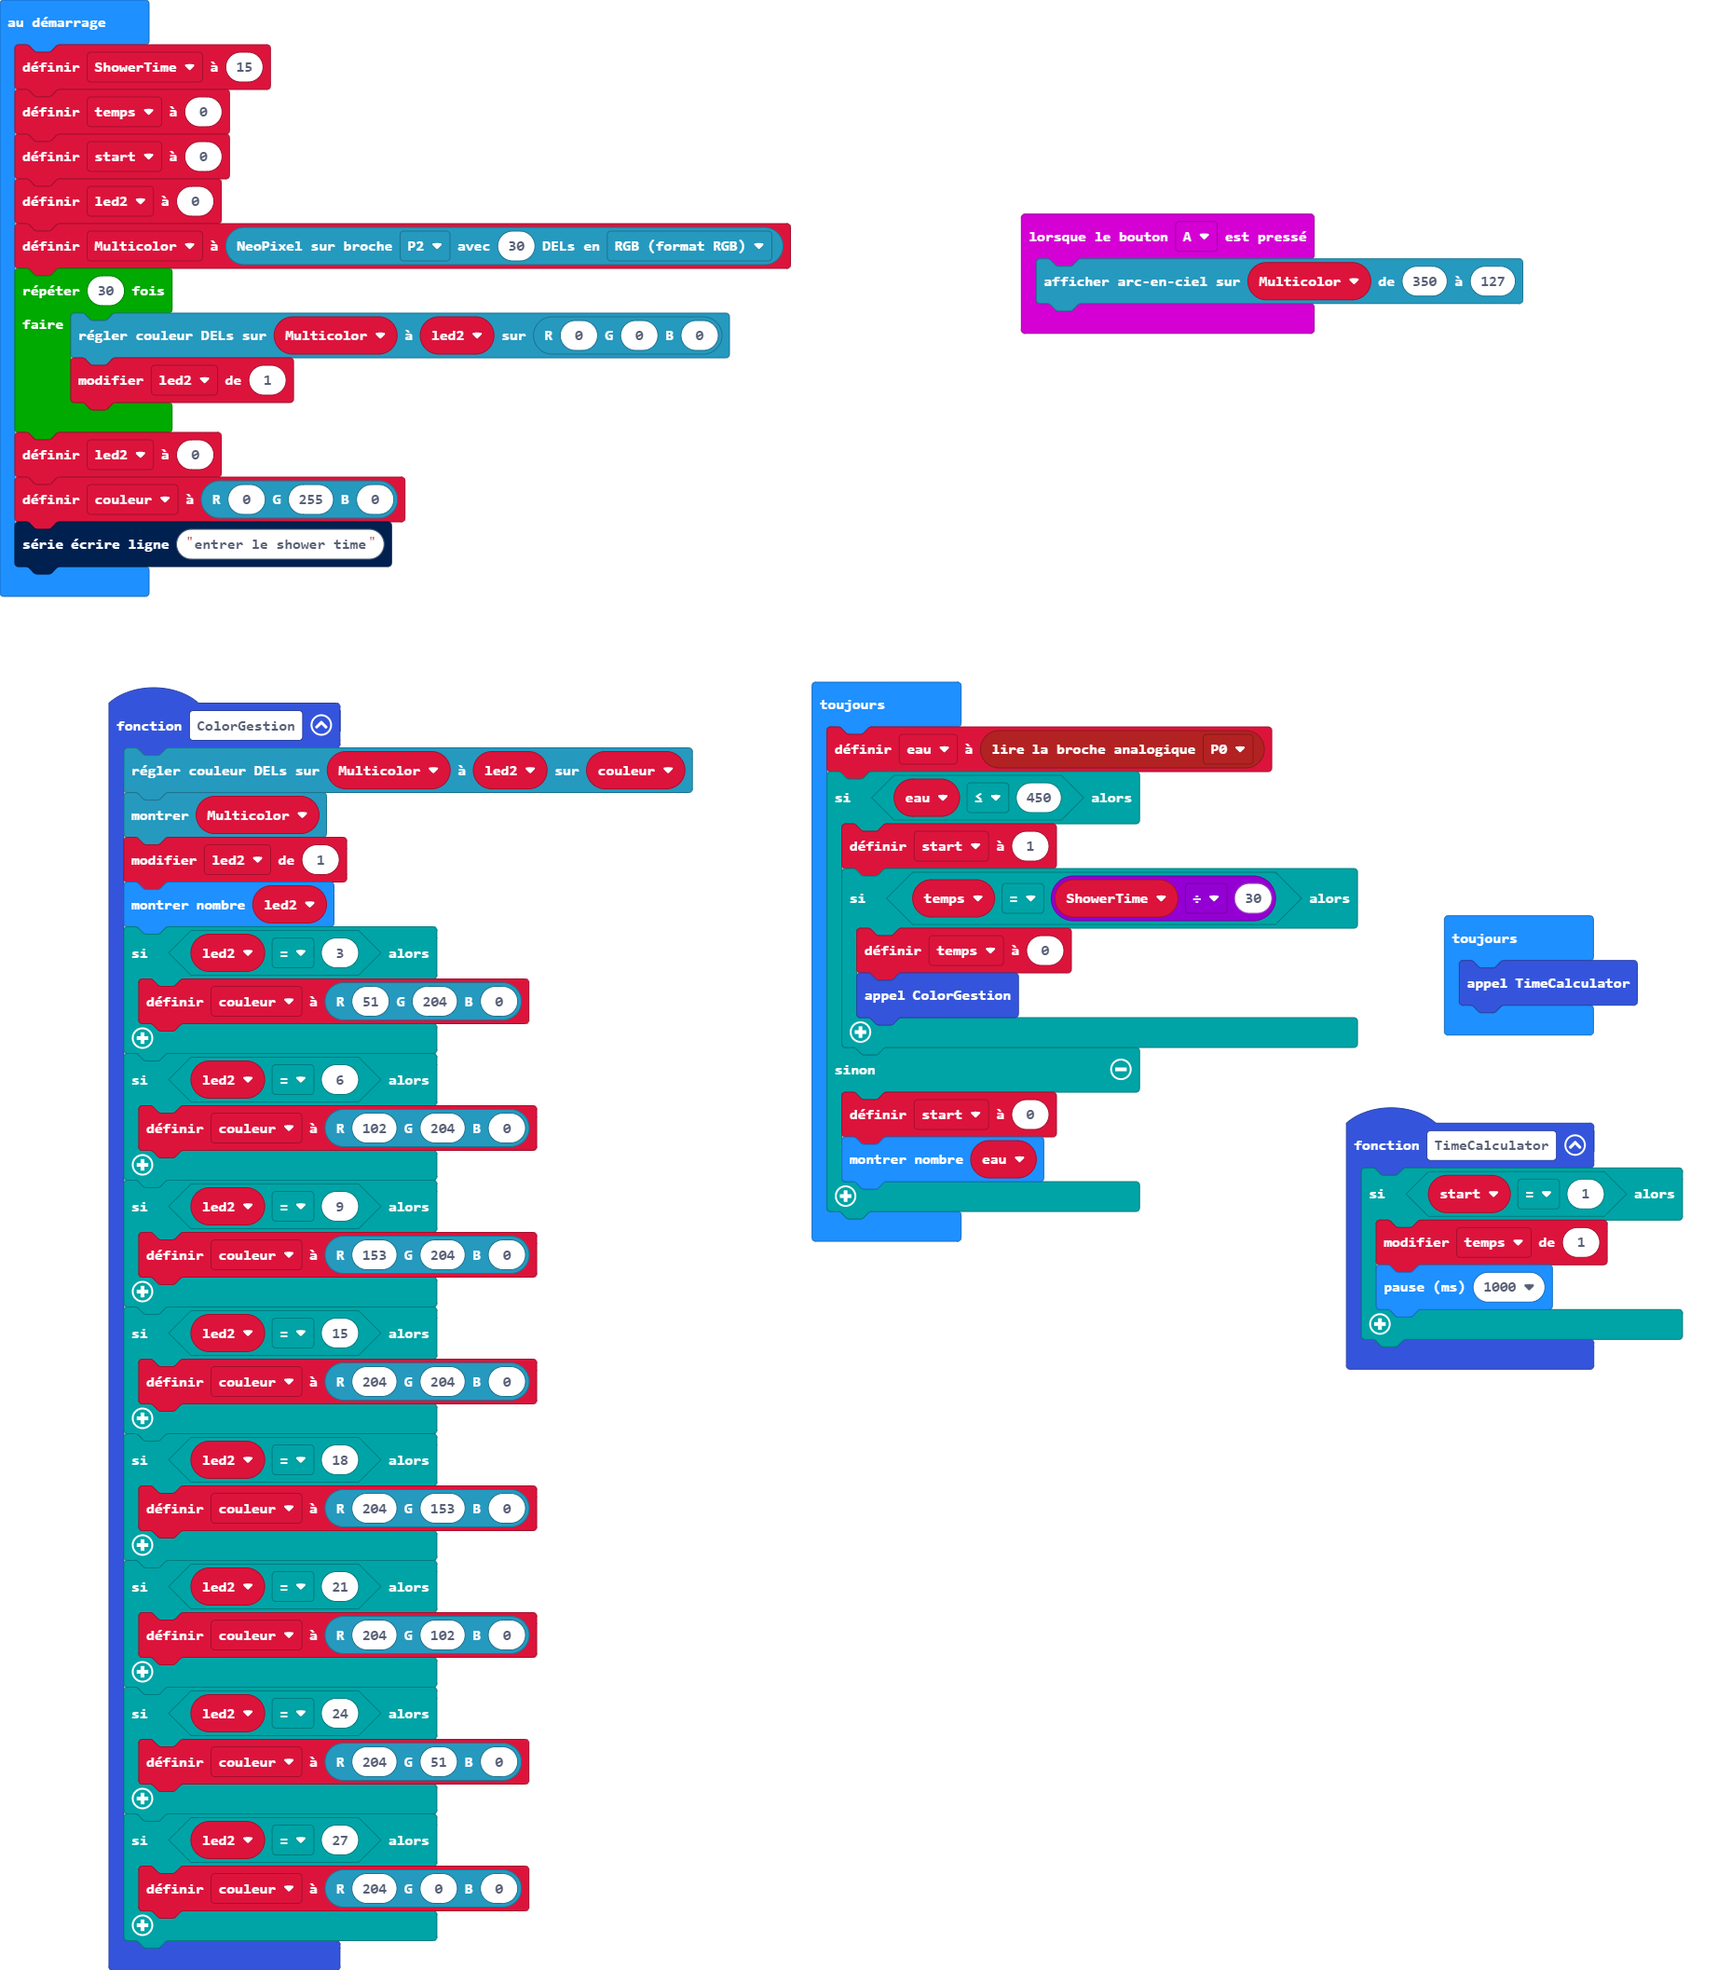
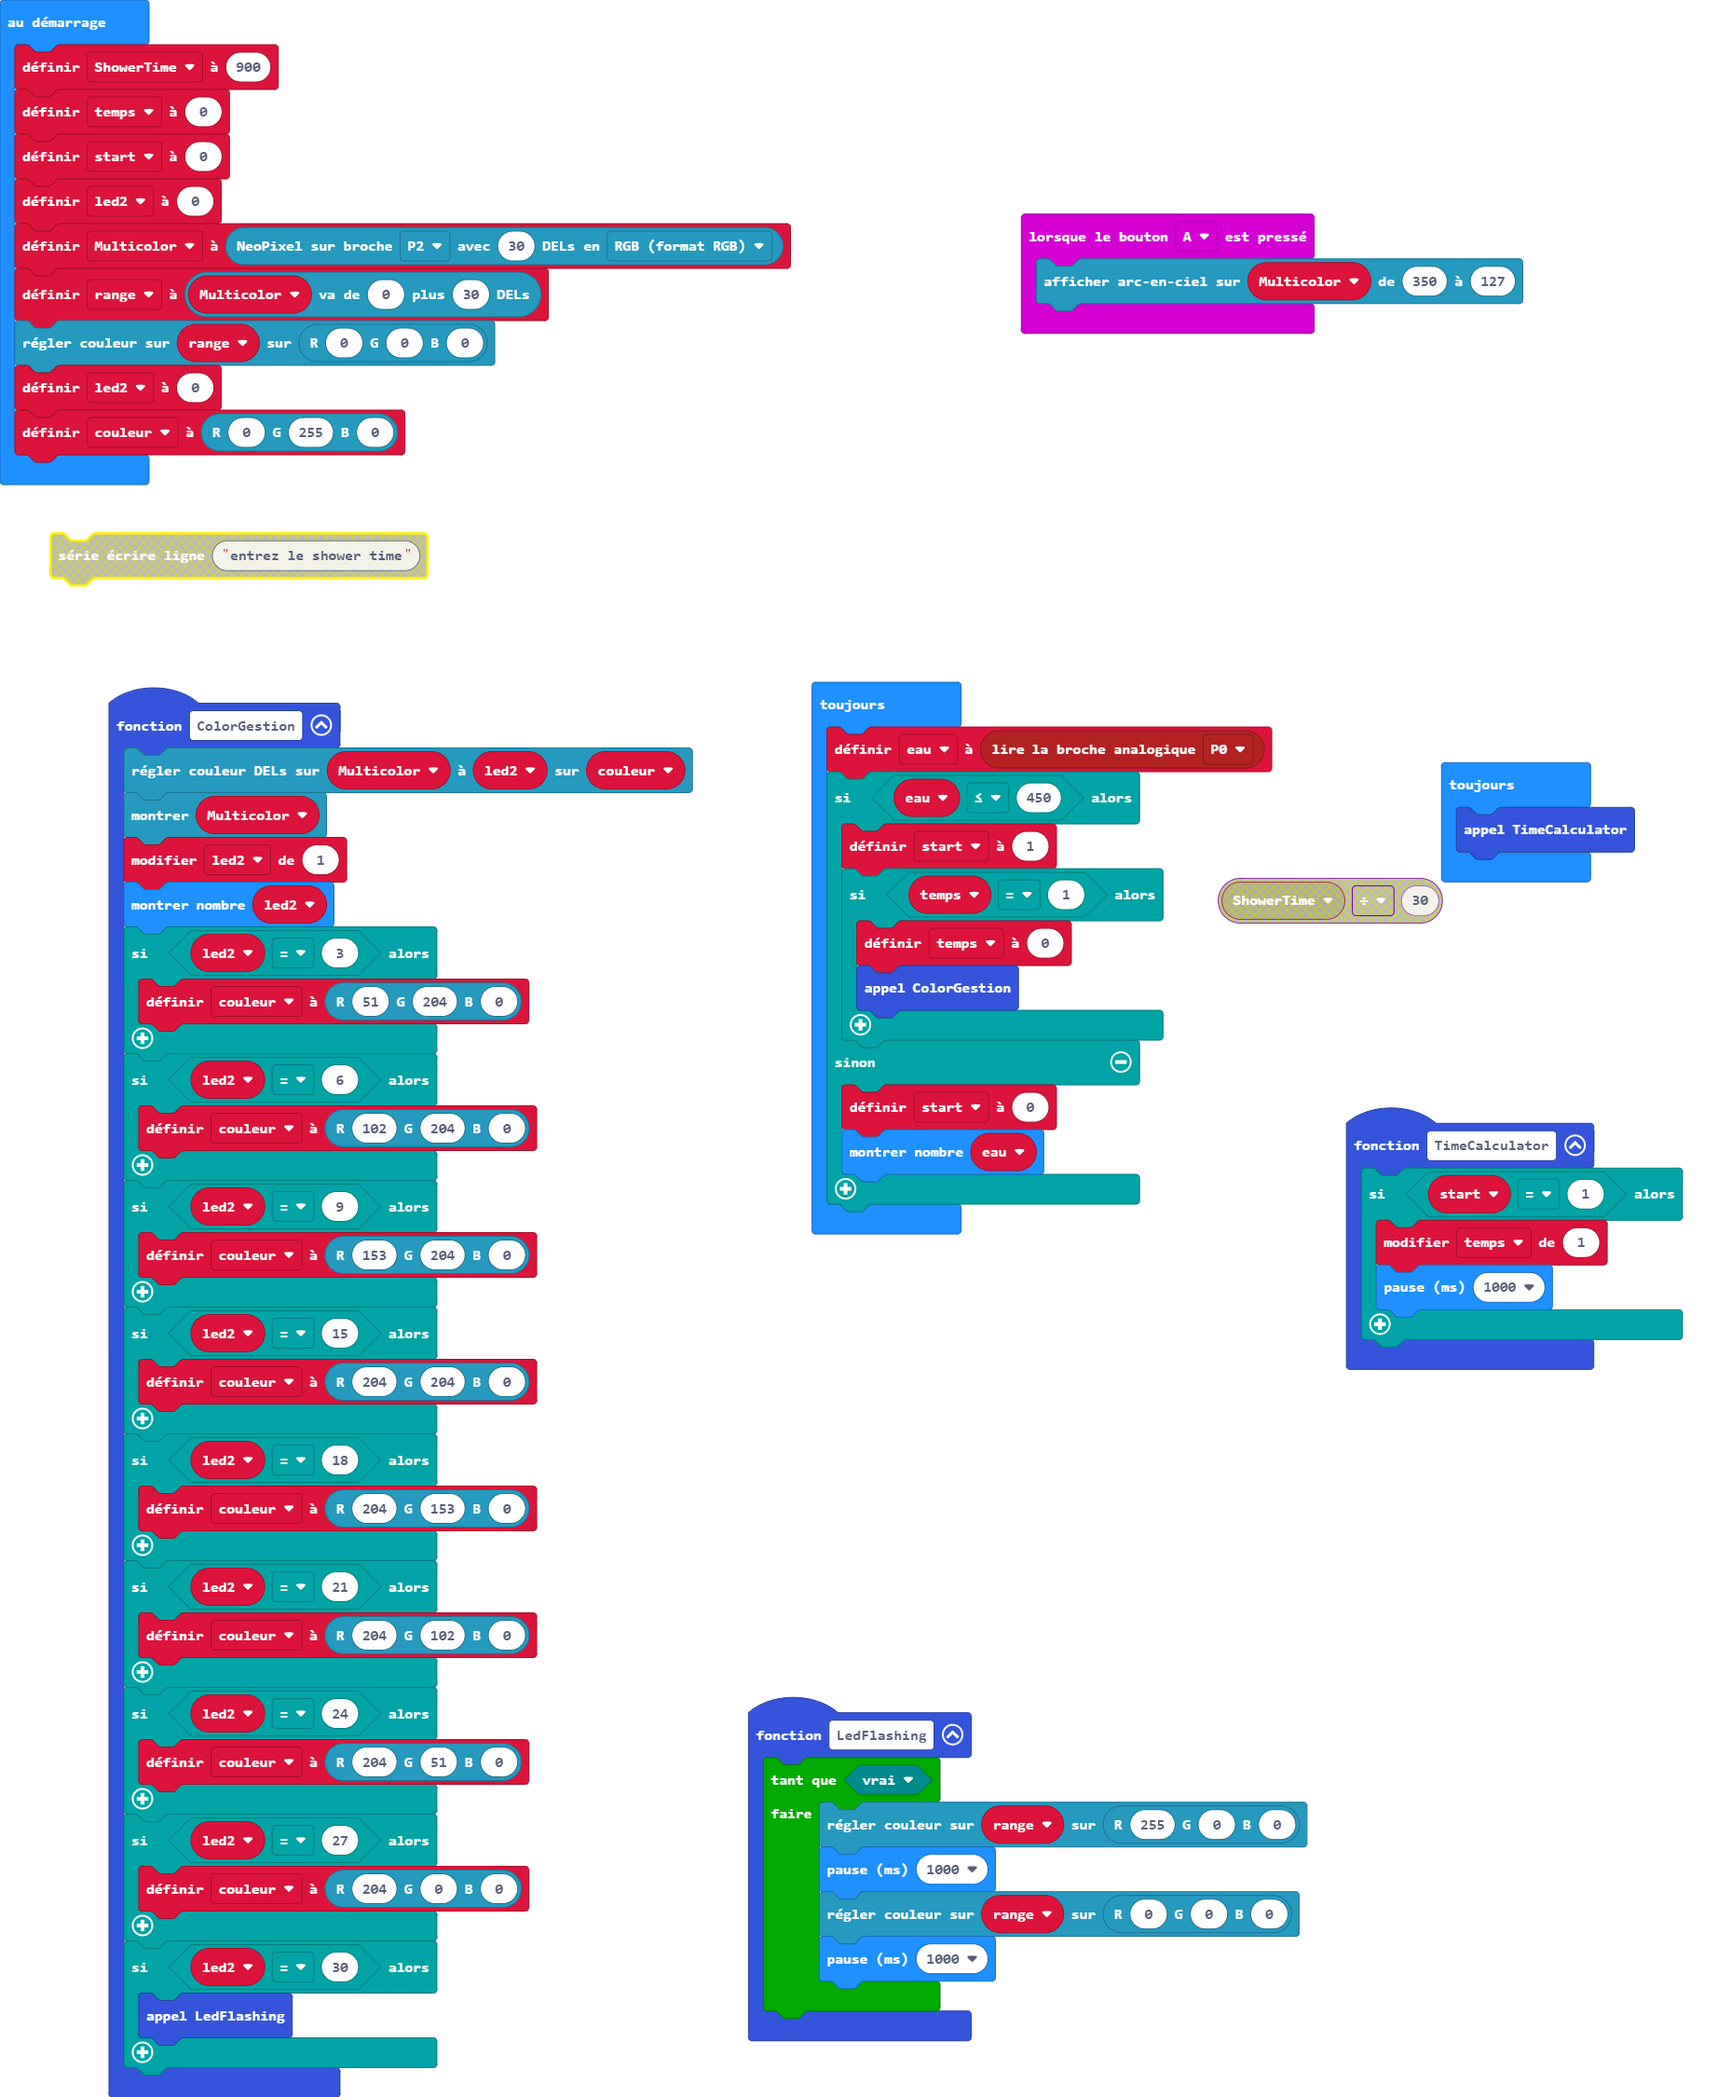
Mise à jour main.blocks, main.ts

diff --git a/main.ts b/main.ts
@@ -7,6 +7,14 @@ function TimeCalculator () {
         basic.pause(1000)
     }
 }
+function LedFlashing () {
+    while (true) {
+        range.showColor(neopixel.rgb(255, 0, 0))
+        basic.pause(1000)
+        range.showColor(neopixel.rgb(0, 0, 0))
+        basic.pause(1000)
+    }
+}
 function ColorGestion () {
     Multicolor.setPixelColor(led2, couleur)
     Multicolor.show()
@@ -36,29 +44,30 @@ function ColorGestion () {
     if (led2 == 27) {
         couleur = neopixel.rgb(204, 0, 0)
     }
+    if (led2 == 30) {
+        LedFlashing()
+    }
 }
 let eau = 0
 let couleur = 0
+let range: neopixel.Strip = null
 let Multicolor: neopixel.Strip = null
 let led2 = 0
 let start = 0
-let ShowerTime = 15
+let ShowerTime = 900
 let temps = 0
 start = 0
 led2 = 0
 Multicolor = neopixel.create(DigitalPin.P2, 30, NeoPixelMode.RGB)
-for (let index = 0; index < 30; index++) {
-    Multicolor.setPixelColor(led2, neopixel.rgb(0, 0, 0))
-    led2 += 1
-}
+range = Multicolor.range(0, 30)
+range.showColor(neopixel.rgb(0, 0, 0))
 led2 = 0
 couleur = neopixel.rgb(0, 255, 0)
-serial.writeLine("entrer le shower time")
 basic.forever(function () {
     eau = pins.analogReadPin(AnalogPin.P0)
     if (eau <= 450) {
         start = 1
-        if (temps == ShowerTime / 30) {
+        if (temps == 1) {
             temps = 0
             ColorGestion()
         }
